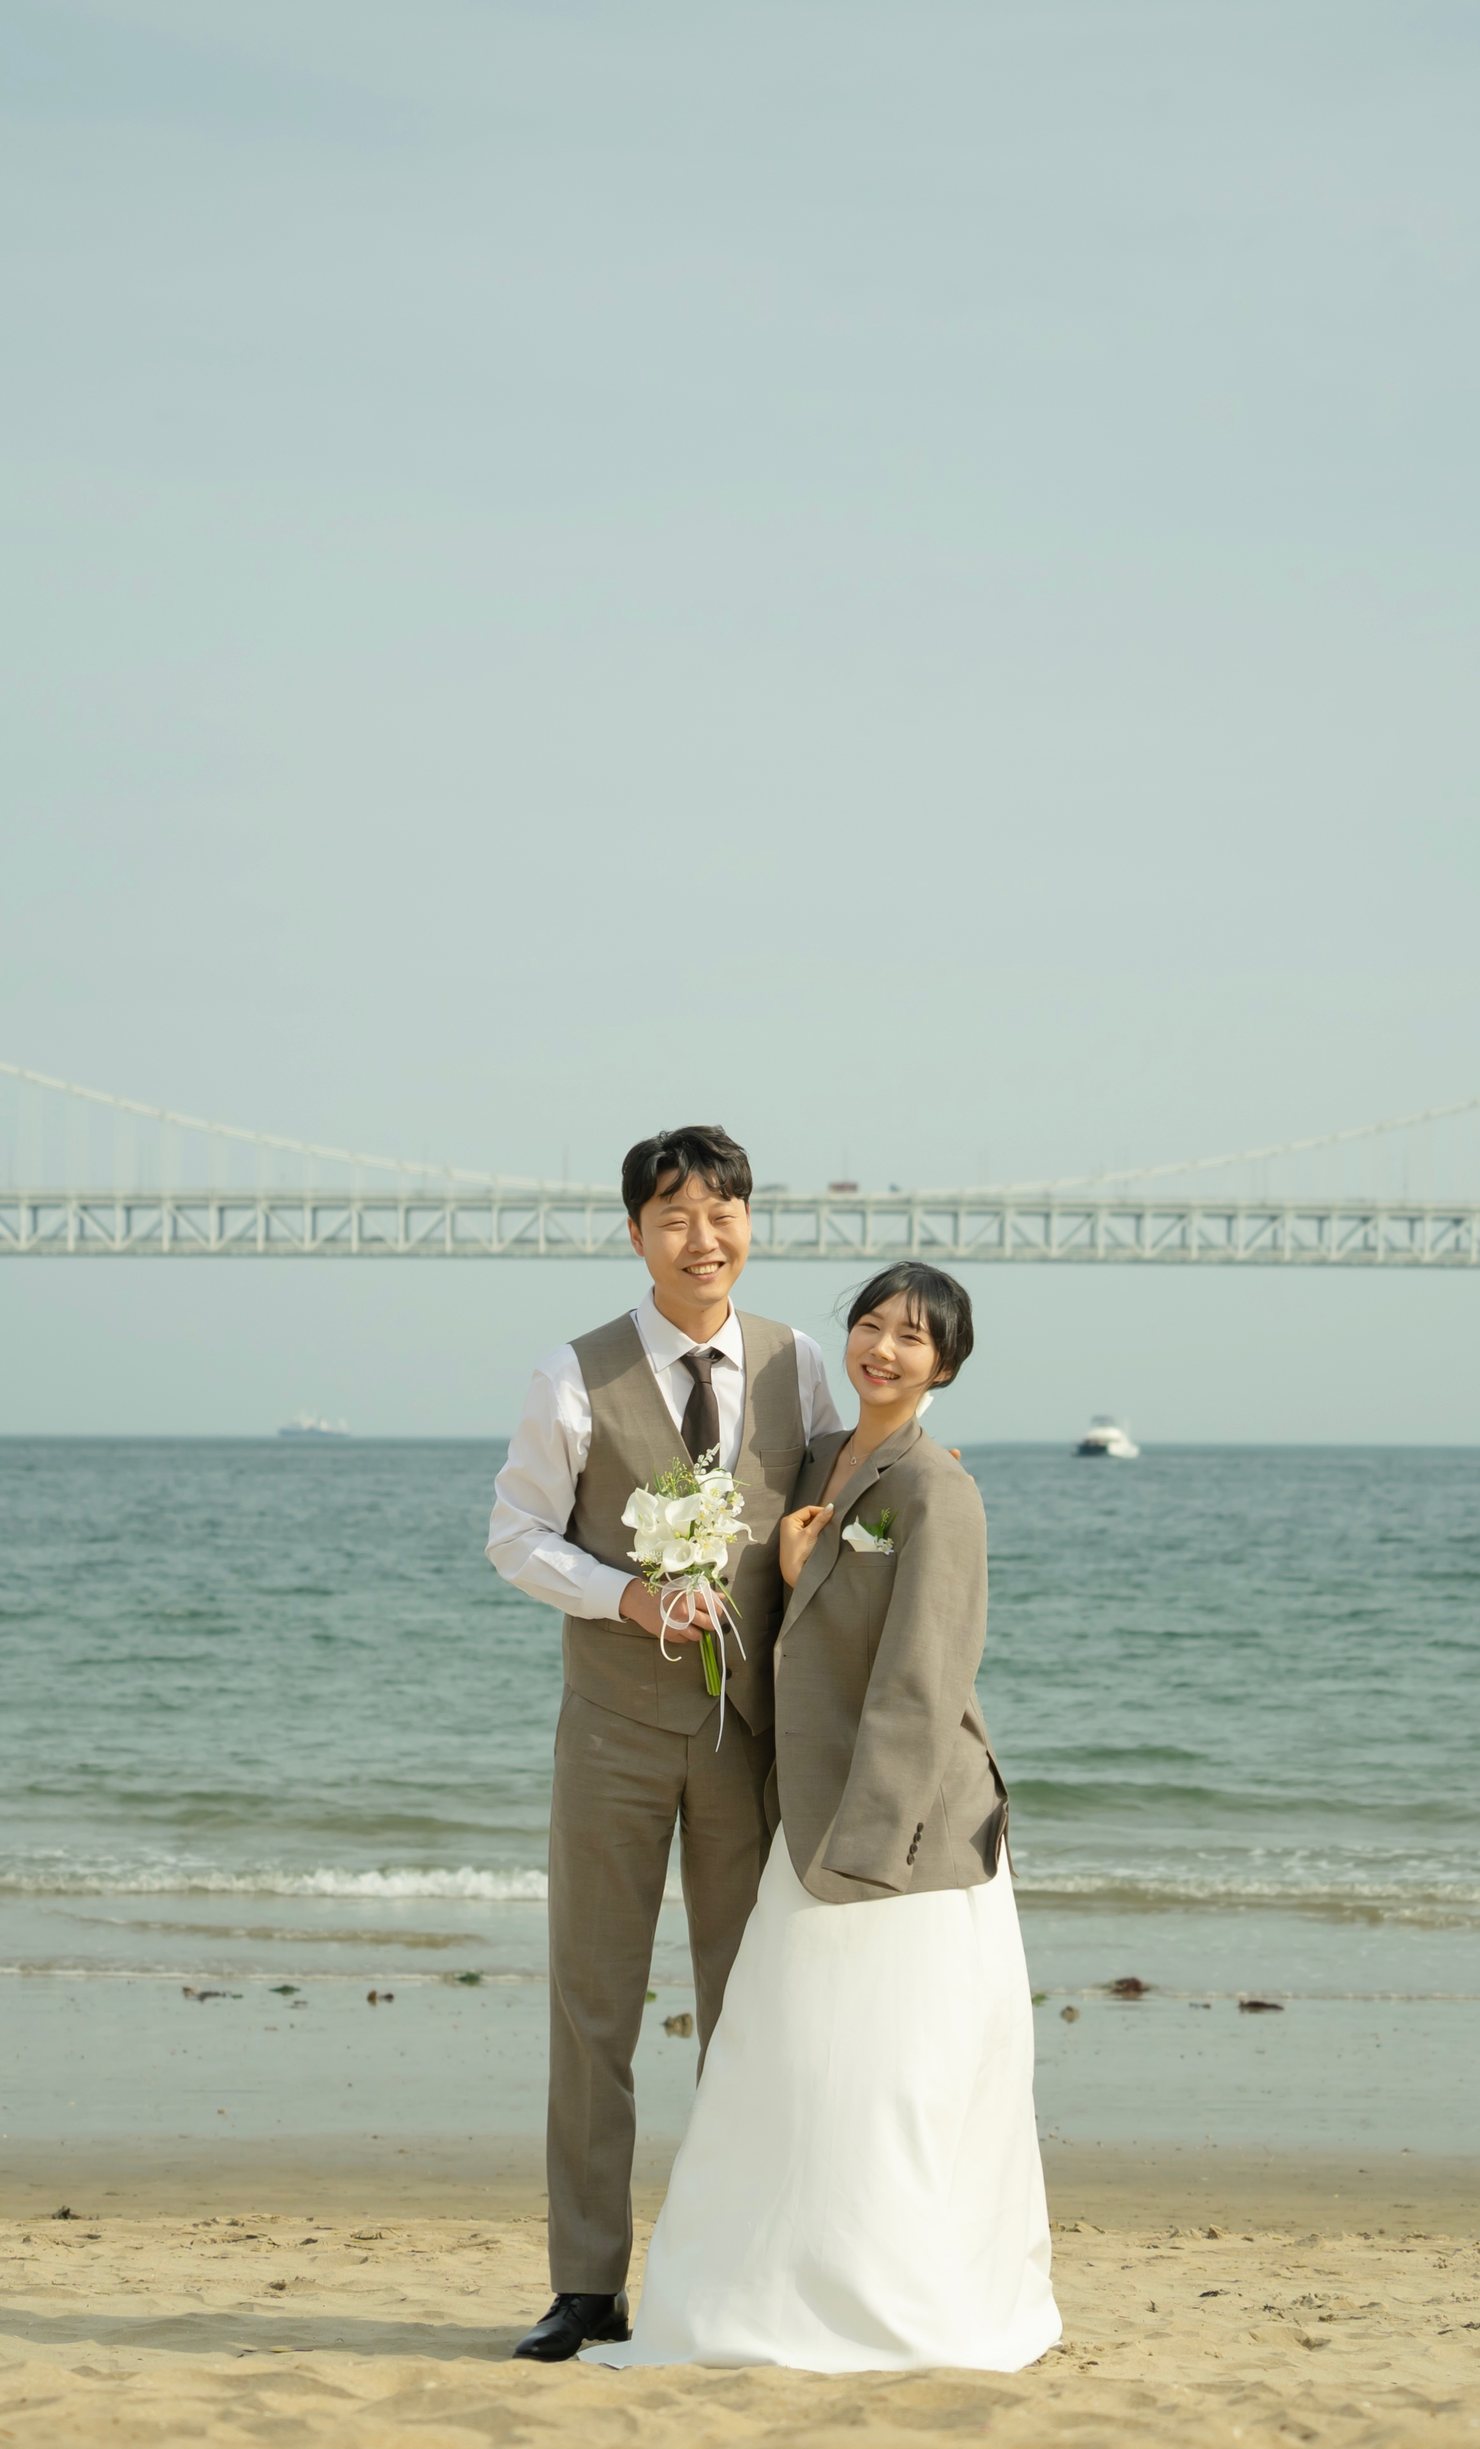
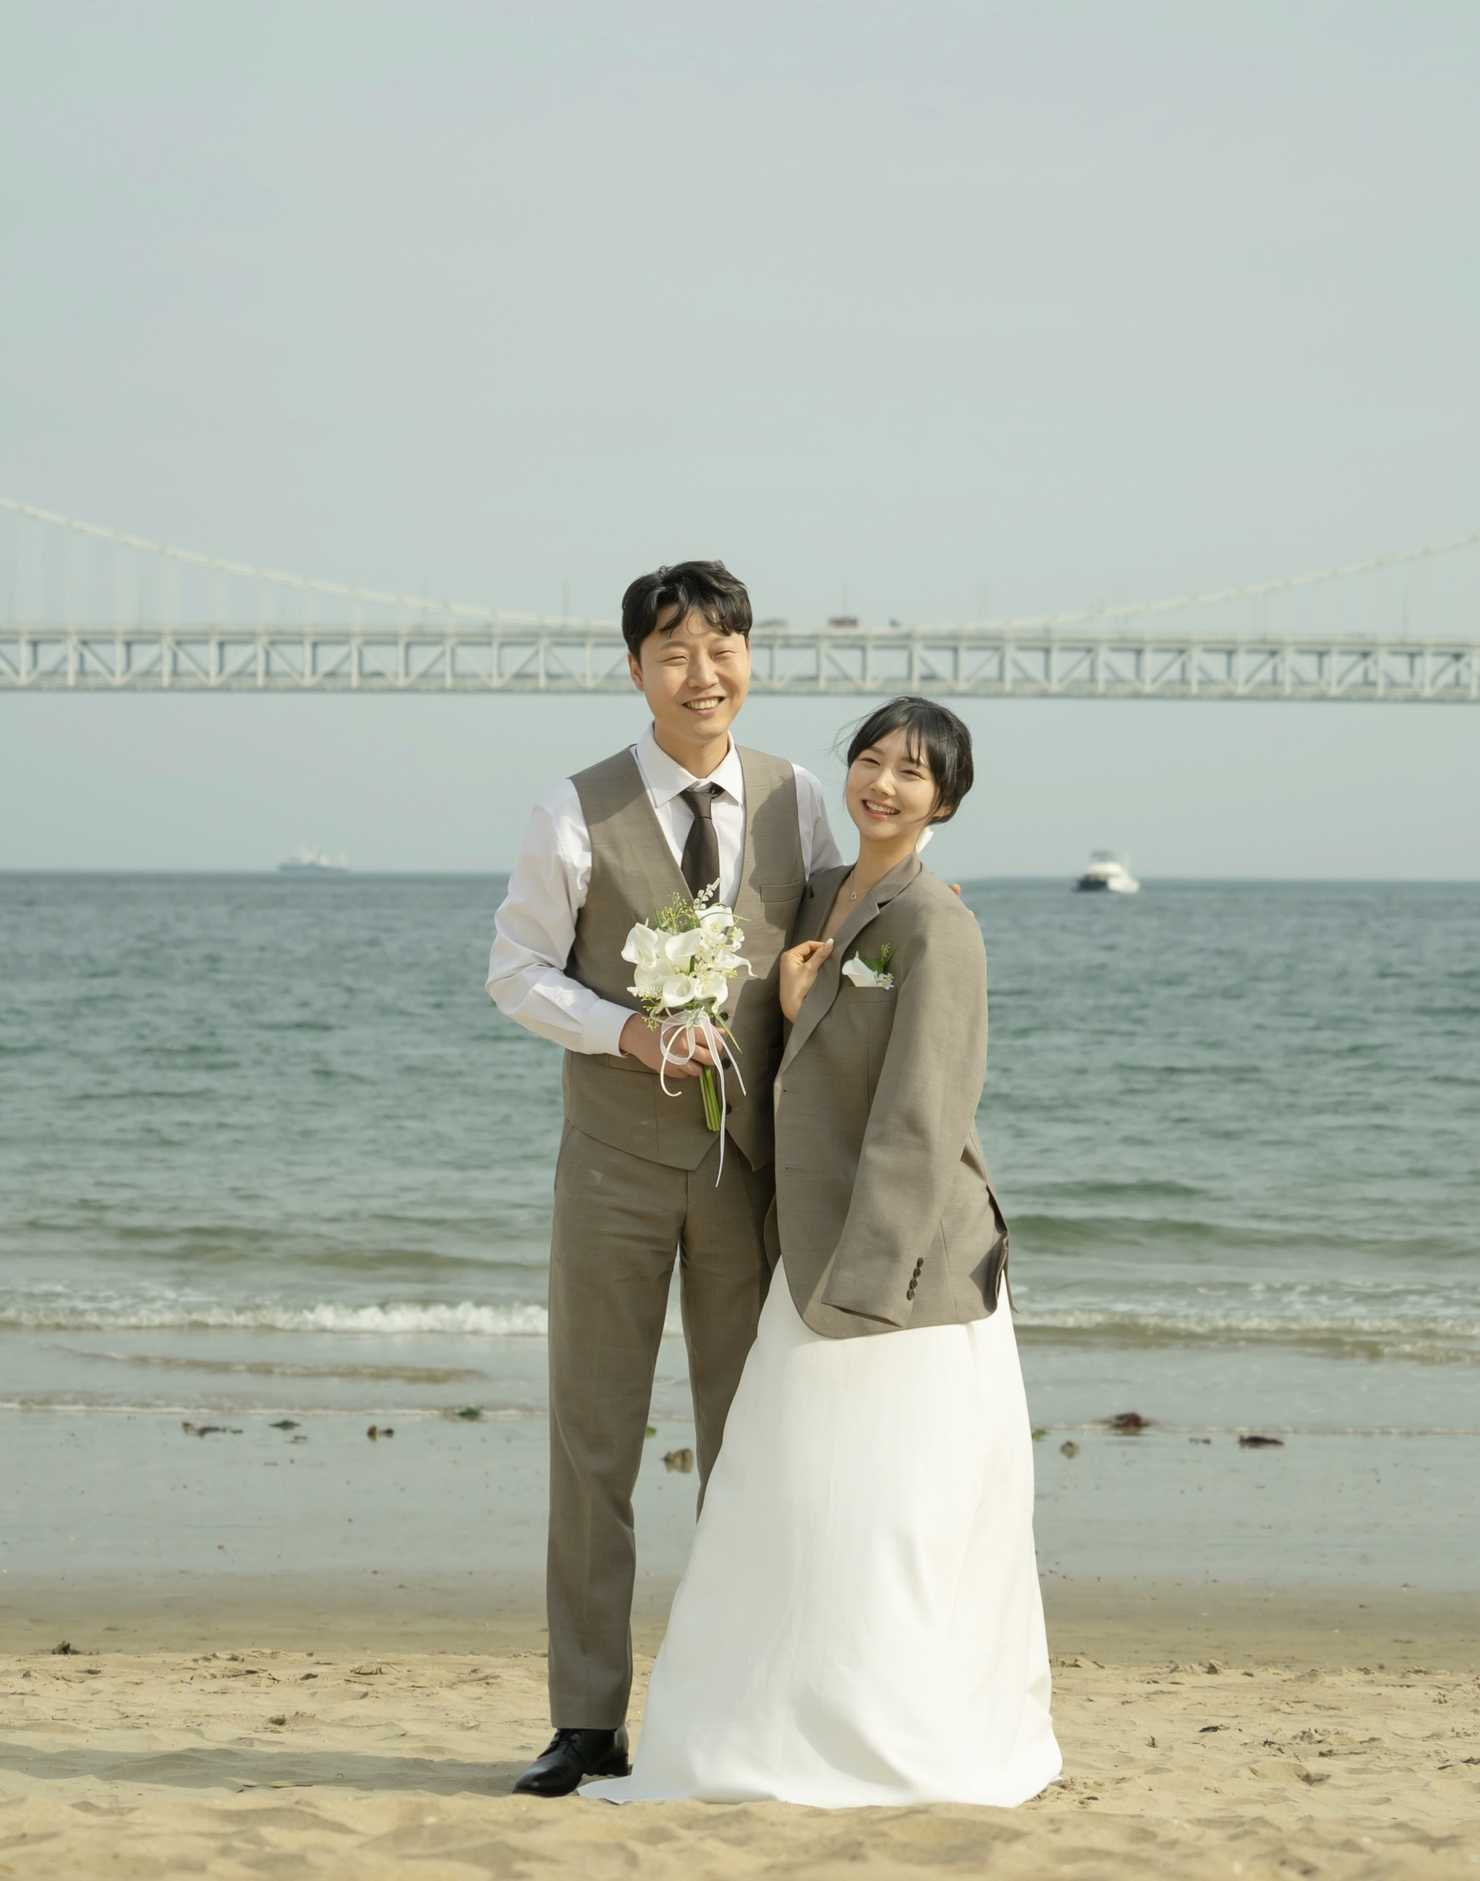
feat: 클라이언트 수정 요청 1차

diff --git a/pages/index.tsx b/pages/index.tsx
@@ -37,11 +37,11 @@ export default function Home() {
           content="https://hapro-yerin-wedding.com/og-image.jpg"
         ></meta>
         <meta name="viewport" content="width=device-width, initial-scale=1" />
-        <link rel="icon" href="/favicon.ico" />
+        <link rel="icon" href="/favicon.png" />
       </Head>
       <Layout>
         {openContact && <ContactsModal setOpenContact={setOpenContact} />}
-        <div className="flex flex-col h-auto w-full bg-[#d5d7ea] max-w-[430px] border items-center justify-center">
+        <div className="flex flex-col h-auto w-full bg-[#dddfee] max-w-[430px] border items-center justify-center">
           <div className="MAIN_IMAGE_TITLE relative flex w-full flex-col justify-start gap-y-8 items-center pb-8">
             <div className="absolute border w-[97%] h-[98%] inset-0 m-auto" />
             <Image
@@ -64,11 +64,11 @@ export default function Home() {
               </div>
               <div className="SECOND_LINE py-5 gap-y-3 flex flex-col w-full items-center">
                 <span>2023년 7월 1일 토요일 오후 3시</span>
-                <span className="text-lg">라루체 4F 루아르홀</span>
+                <span>라루체 4F 루아르홀</span>
               </div>
             </div>
           </div>
-          <div className="UNTIL_MAP flex flex-col justify-start w-full items-center h-auto py-8">
+          <div className="UNTIL_MAP flex flex-col justify-start w-full items-center h-auto pt-8">
             <div className="flex flex-col items-center justify-center space-y-2">
               <span className="text-[#7196cb] tracking-widest text-sm">
                 INVITATION
@@ -98,19 +98,19 @@ export default function Home() {
                 <div className="flex flex-col justify-between gap-y-2  text-lg">
                   <div className="flex">
                     <span className="font-extrabold">강정숙</span>
-                    <span className="text-sm self-end pl-2">의</span>
+                    <span className="text-sm self-end pl-2 mb-[2px]">의</span>
                   </div>
                   <div className="flex">
                     <span className="font-extrabold">김재현</span>
-                    <span className="text-sm self-end pl-2">의</span>
+                    <span className="text-sm self-end pl-2 mb-[2px]">의</span>
                   </div>
                 </div>
                 <div className="flex flex-col justify-between items-center gap-y-2 text-lg">
                   <div className="flex items-end h-7">
-                    <span className="text-sm text-center">아들</span>
+                    <span className="text-sm text-center mb-[2px]">아들</span>
                   </div>
                   <div className="flex items-end h-7">
-                    <span className="text-sm text-center">딸</span>
+                    <span className="text-sm text-center mb-[2px]">딸</span>
                   </div>
                 </div>
                 <div className="flex flex-col justify-between gap-y-2 font-extrabold text-lg">
@@ -145,7 +145,7 @@ export default function Home() {
               <Calendar />
             </div>
           </div>
-          <div className="WHOLE_MAP w-full h-auto flex flex-col py-12 px-4">
+          <div className="WHOLE_MAP w-full h-auto flex flex-col py-14 px-4 border-black">
             <div className="flex flex-col items-center justify-center space-y-2 py-4">
               <span className="text-[#7196cb] text-sm tracking-widest">
                 LOCATION
@@ -155,7 +155,9 @@ export default function Home() {
               </span>
             </div>
             <div className="flex flex-col items-center justify-center space-y-2 py-4">
-              <span className="tracking-widest">라루체 4F 루아르홀</span>
+              <span className="tracking-widest opacity-70">
+                라루체 4F 루아르홀
+              </span>
               <span className="tracking-wide opacity-70">
                 서울 중구 퇴계로18길 46
               </span>
@@ -510,7 +512,7 @@ export default function Home() {
               </div>
             </div>
           </div>
-          <div className="pb-12 flex flex-col justify-center items-center">
+          <div className="pb-14 flex flex-col justify-center items-center">
             <span className="text-md pb-2 flex items-center text-[#446ea9]/70">
               축하 화환은 정중히 사양합니다.
             </span>

diff --git a/components/PhotoGallery.tsx b/components/PhotoGallery.tsx
@@ -11,9 +11,9 @@ export const PhotoGallery = () => {
       height: 2301,
     },
     {
-      path: "2.JPG",
+      path: "2.jpg",
       width: 2320,
-      height: 3840,
+      height: 2949,
     },
     {
       path: "3.jpg",
@@ -21,14 +21,14 @@ export const PhotoGallery = () => {
       height: 1829,
     },
     {
-      path: "4.JPEG",
-      width: 3126,
-      height: 3837,
+      path: "4.jpg",
+      width: 3124,
+      height: 2878,
     },
     {
-      path: "5.JPG",
-      width: 3093,
-      height: 3814,
+      path: "5.jpg",
+      width: 3090,
+      height: 3030,
     },
     {
       path: "6.JPEG",
@@ -46,7 +46,7 @@ export const PhotoGallery = () => {
       height: 3404,
     },
     {
-      path: "9.JPG",
+      path: "9.jpg",
       width: 2423,
       height: 3634,
     },
@@ -77,7 +77,7 @@ export const PhotoGallery = () => {
     },
   ];
   return (
-    <div className="w-full flex flex-col justify-center bg-white/30 items-center relative gap-y-1">
+    <div className="w-full flex flex-col justify-center bg-white/30 items-center relative gap-y-4 px-3">
       <div className="flex flex-col items-center justify-center gap-y-2 pt-14 pb-6">
         <span className="text-[#7196cb] tracking-widest text-sm">GALLERY</span>
         <span className="text-[#446ea9] tracking-widest text-xl">갤러리</span>

diff --git a/components/Calendar.tsx b/components/Calendar.tsx
@@ -7,7 +7,7 @@ export const Calendar = () => {
   const dayArray = ["일", "월", "화", "수", "목", "금", "토"];
 
   return (
-    <div className="w-full grid grid-cols-7 text-center py-5 px-4">
+    <div className="w-full grid grid-cols-7 text-center px-4">
       {dayArray.map((i) => {
         return (
           <div
